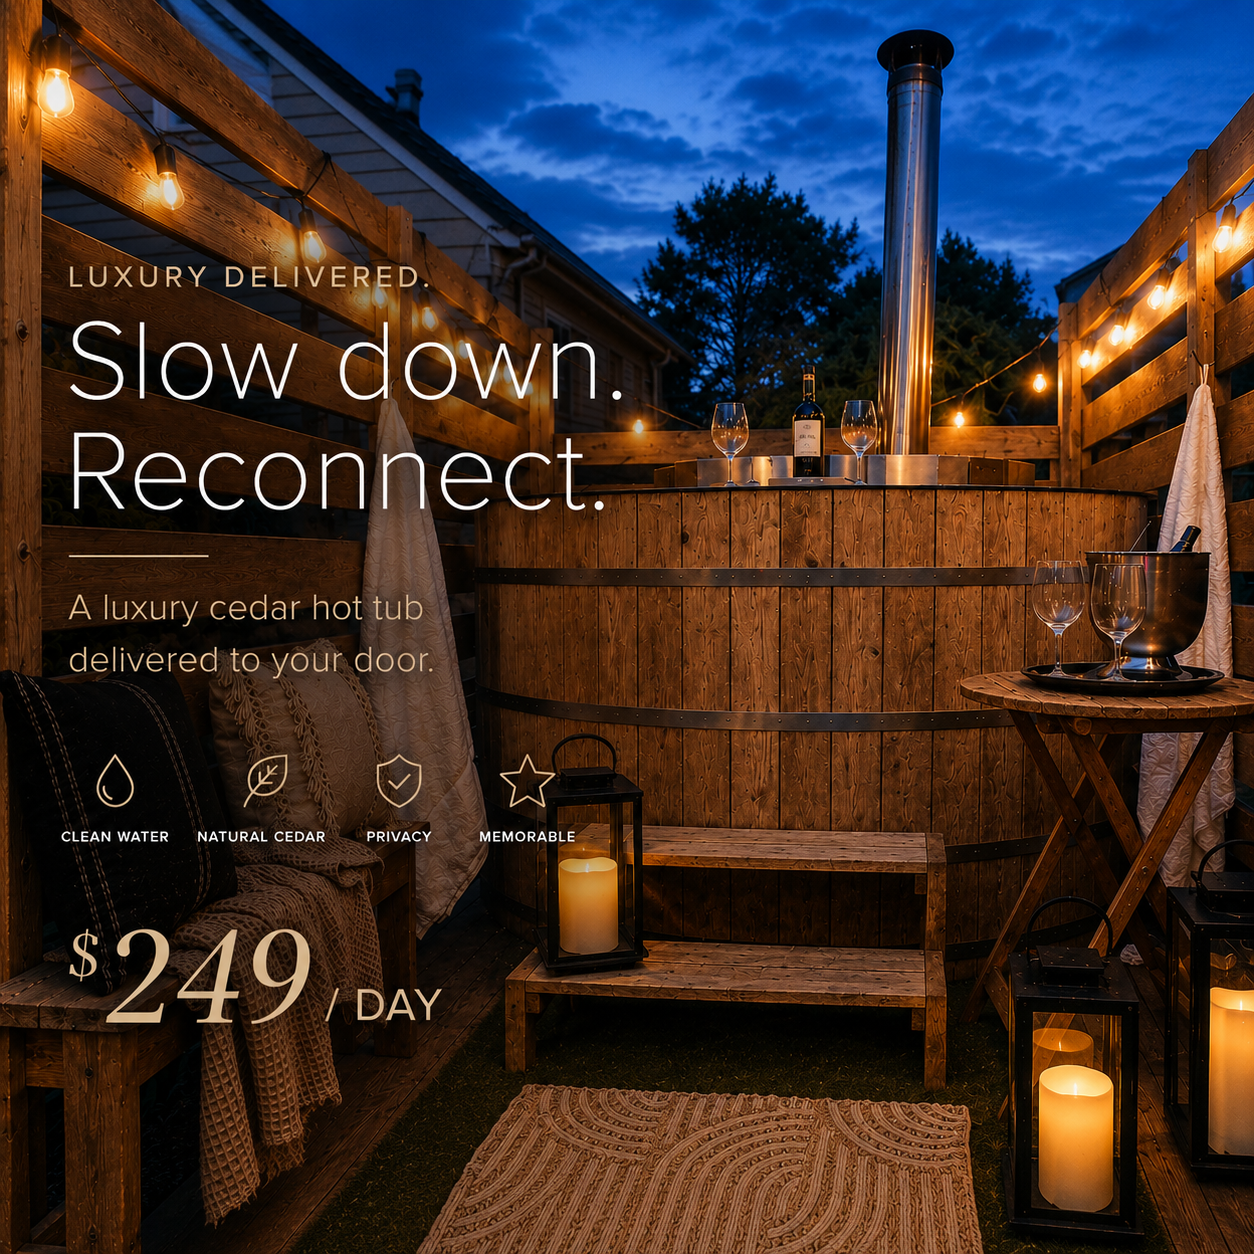
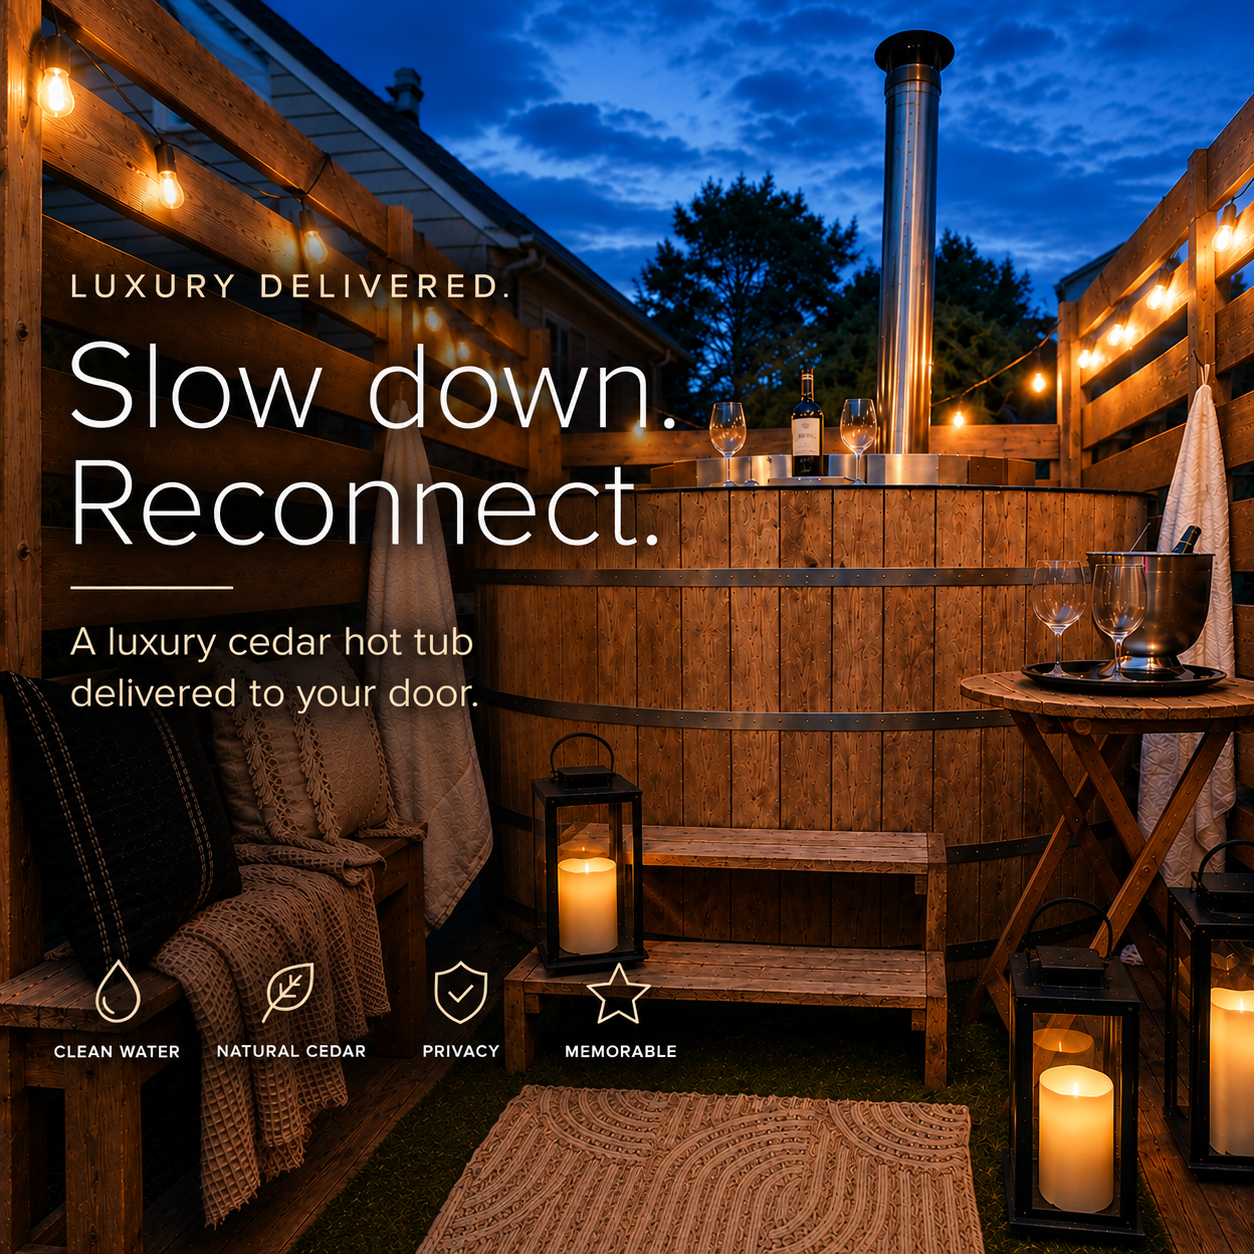
Replace hero images with no-price versions
Desktop: cedar-soak-hero-desktop-NOPRICE.png (1619x971); hero box aspect updated to match.
Mobile: cedar-soak-mobile-hero-NOPRICE.png (1254x1254).

Claude-Session: https://claude.ai/code/session_017N7QvXmiuUTwSJtoUzpvPK

diff --git a/app/globals.css b/app/globals.css
@@ -196,7 +196,7 @@
     padding-bottom:0;
   }
   .hero-media{ position:relative; width:100%; overflow:hidden; }
-  .hero-img{ position:relative; width:100%; aspect-ratio:1536/620; display:block; }
+  .hero-img{ position:relative; width:100%; aspect-ratio:1619/971; display:block; }
   .hero-img-mobile{ display:none; }
   @media (max-width:768px){
     .hero{ padding-top:72px; }
